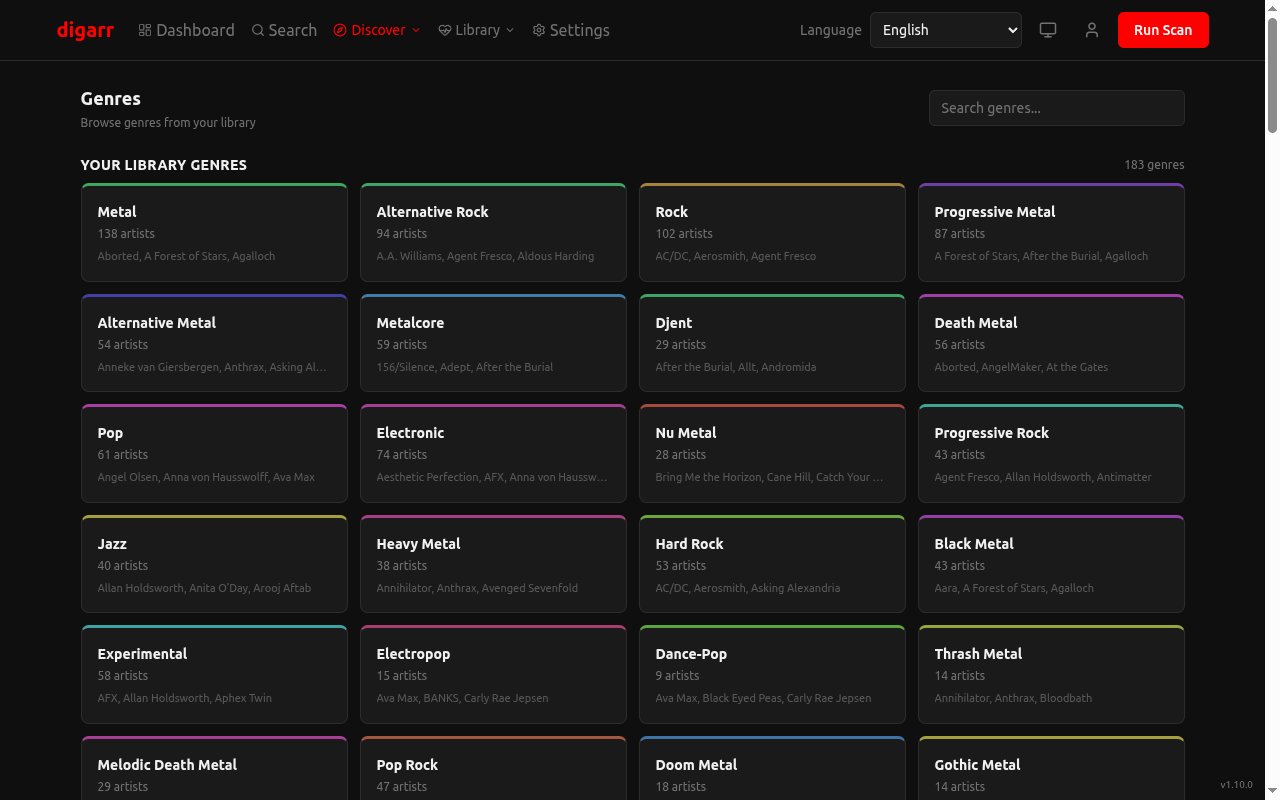
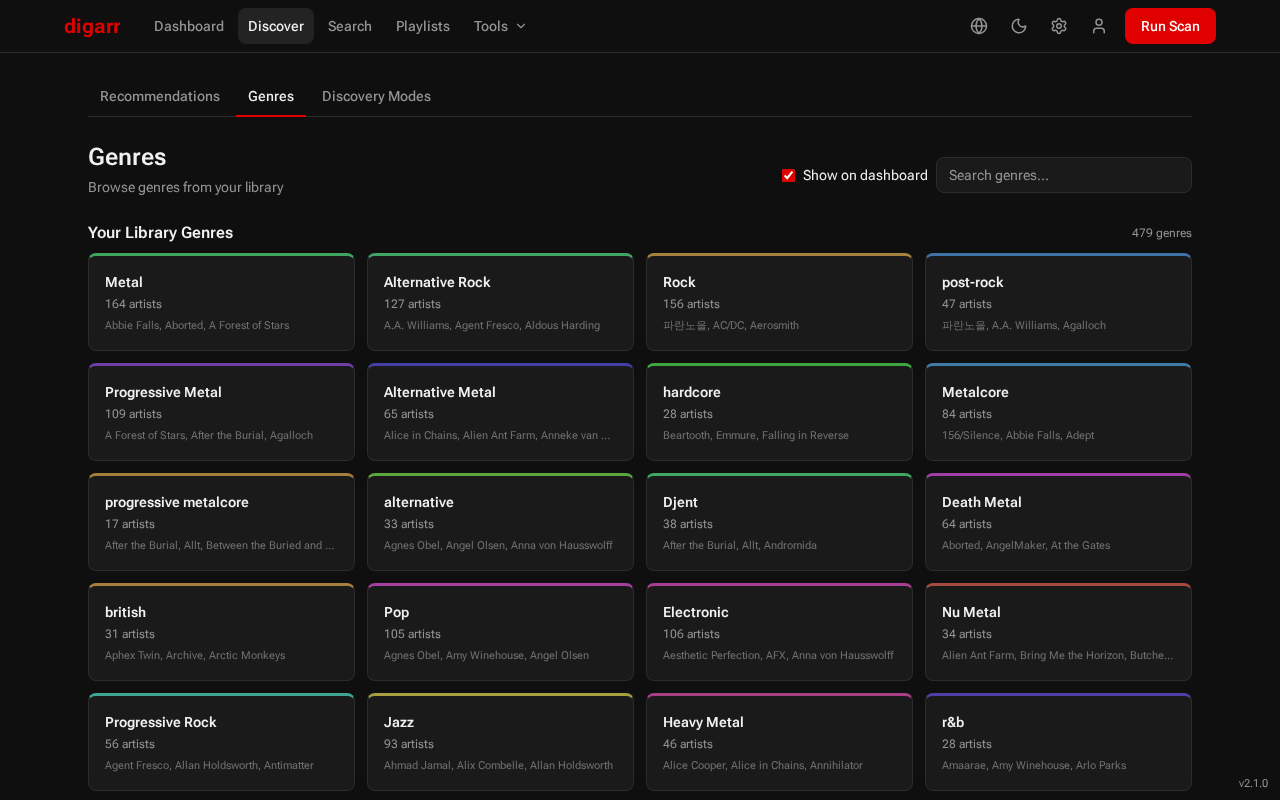
docs(screenshots): recapture the set from v2.1.0
The screenshots predated the UI refresh. Recaptured from a v2.1.0
deployment at 1280x800 and rewrote SCREENSHOTS.md to describe what the
images now show.

The capture script pointed at retired routes and selectors: Discovery
Modes moved to /discovery-modes, the standalone Subscriptions page is a
redirect, Library Sources sits in a collapsed section, and the Add
connection picker opens below the fold. Search now types a query so the
capture shows results.

settings-your-connections.png and subscriptions.png are removed;
settings.png covers Your connections and the Subscriptions page no longer
exists. settings-connections-picker.png is added.

Closes #947

diff --git a/scripts/capture-screenshots.ts b/scripts/capture-screenshots.ts
@@ -56,31 +56,32 @@ const specs: PageSpec[] = [
   { path: '/', file: 'dashboard-dark.png', theme: 'dark' },
   { path: '/', file: 'dashboard-light.png', theme: 'light' },
   { path: '/discover', file: 'discover.png', theme: 'dark' },
-  { path: '/discover/modes', file: 'discovery-modes.png', theme: 'dark' },
-  { path: '/search', file: 'search.png', theme: 'dark' },
+  { path: '/discovery-modes', file: 'discovery-modes.png', theme: 'dark' },
+  {
+    path: '/search',
+    file: 'search.png',
+    theme: 'dark',
+    onPage: async (page) => {
+      await page.getByPlaceholder(/Search artists/i).fill('Agalloch')
+      await page.waitForTimeout(4000)
+    },
+  },
   { path: '/genres', file: 'genres.png', theme: 'dark' },
   // genre-detail is inserted dynamically after finding a slug
   { path: '/playlists', file: 'playlists.png', theme: 'dark' },
-  { path: '/subscriptions', file: 'subscriptions.png', theme: 'dark' },
   { path: '/library?tab=health', file: 'library-health.png', theme: 'dark' },
   {
     path: '/library?tab=health',
     file: 'library-sources.png',
     theme: 'dark',
     onPage: async (page) => {
-      const heading = page
-        .locator('h2, h3, h4')
-        .filter({ hasText: /Library Sources/i })
-        .first()
-      if (await heading.count()) {
-        await heading.scrollIntoViewIfNeeded()
-        await page.waitForTimeout(300)
-        await page.evaluate(() => window.scrollBy(0, -40))
-        await page.waitForTimeout(300)
-      } else {
-        await page.evaluate(() => window.scrollTo(0, document.body.scrollHeight))
-        await page.waitForTimeout(300)
-      }
+      // The panel sits in a collapsed Disclosure on Library > Health.
+      const toggle = page.getByRole('button', { name: /Library Sources/i }).first()
+      await toggle.click()
+      await page.waitForTimeout(800)
+      await toggle.evaluate((el) => el.scrollIntoView({ block: 'start' }))
+      await page.evaluate(() => window.scrollBy(0, -100))
+      await page.waitForTimeout(300)
     },
   },
   { path: '/library?tab=reconciliation', file: 'library-reconciliation.png', theme: 'dark' },
@@ -93,6 +94,11 @@ const specs: PageSpec[] = [
     onPage: async (page) => {
       await page.getByRole('button', { name: 'Add connection', exact: true }).click()
       await page.getByRole('searchbox', { name: 'Search connections' }).waitFor()
+      await page
+        .getByRole('searchbox', { name: 'Search connections' })
+        .evaluate((el) => el.scrollIntoView({ block: 'start' }))
+      await page.evaluate(() => window.scrollBy(0, -120))
+      await page.waitForTimeout(300)
     },
   },
   { path: '/settings?tab=account', file: 'settings-account.png', theme: 'dark' },

diff --git a/docs/SCREENSHOTS.md b/docs/SCREENSHOTS.md
@@ -1,25 +1,22 @@
 # Screenshots
 
-The checked-in screenshots use the Youtarr theme. Most were captured from
-v1.10.0; Analytics was refreshed from v1.12.0. Discovery Modes, Settings, and Your Connections show v1.15.1 (`d276d94`) in their footers; Library Reconciliation shows v1.14.0. The Account capture was added with v1.17.0 (commit `e36d7d8a`); its exact running build was not recorded.
+The checked-in screenshots were captured from a v2.1.0 (`97eefd8d`) deployment with the
+Youtarr theme at 1280x800. Usernames, email addresses, the instance host, and credential
+input values are redacted by the capture script. Capture a fresh set with
+`bun scripts/capture-screenshots.ts`; see that script's header for environment variables.
 
-The descriptions below reflect v2.0.1. The captures predate its genre-priority controls, playlist generation outcomes, Audition failure summary, and dashboard history states; these are described below rather than shown in the older images. Capture a fresh set with
-`bun scripts/capture-screenshots.ts`; see that script's header for environment
-variables.
-
-The web UI refresh tracked in [#889](https://github.com/iuliandita/digarr/issues/889) changes the font, type scale and surface styling; these captures predate it and will be recaptured once the refresh is complete.
-
-In v2.0.0, first-time browser setup starts with account creation before the existing wizard. These captures do not show that onboarding order; form layouts and translated labels are unchanged.
+First-time browser setup starts with account creation before the setup wizard; these
+captures show an instance that is already set up.
 
 ## Dashboard (dark)
 
 ![Dashboard](screenshots/dashboard-dark.png)
 
-In v1.19.0, listening tiles distinguish an unconfigured account, empty history, and a failed fetch. Network or request failures retain cached entries with a retry notice. In v2.0.0, upstream failures returned by the API as HTTP 200 with `status: error` also retain cached entries and show a retry notice; v1.19.0 can replace them with an empty error state ([#770](https://github.com/iuliandita/digarr/issues/770)).
+Customize lists every card, including hidden and empty cards, with visibility, size, pointer drag handles, move buttons, and arrow-key reordering. Screen readers hear the new position. Small, medium, and large span one, two, and three desktop columns and fill the width on phones. Reset to default restores Today's Pick, Your decisions, Listening, Genres, and Subscriptions. The layout follows the signed-in account. Empty cards hide unless Show empty cards is enabled; listening-source failures remain visible in the affected view. When Today's Pick has no recommendations, Run Scan stays available in the dashboard header.
 
-The upcoming customizable dashboard (#995) replaces the fixed layout shown above. Customize lists every card, including hidden and empty cards, with visibility, size, pointer drag handles, move buttons, and arrow-key reordering. Screen readers hear the new position. Small, medium, and large span one, two, and three desktop columns and fill the width on phones. Reset to default restores Today's Pick, Your decisions, Listening, Genres, and Subscriptions. The layout follows the signed-in account. Empty cards hide unless Show empty cards is enabled; listening-source failures remain visible in the affected view. When Today's Pick has no recommendations, Run Scan stays available in the dashboard header.
+Your decisions switches between Approved and All; Listening switches between Top artists and Recently Played. Card headings link to their source page. Genres, Subscriptions, Discover's pending and decision views, and Settings > Connections expose the same visibility preference through Show on dashboard.
 
-Your decisions switches between Approved and All; Listening switches between Top artists and Recently Played. Card headings link to their source page. Genres, Subscriptions, Discover's pending and decision views, and Settings > Connections expose the same visibility preference through Show on dashboard. The existing screenshot capture script still navigates to `/` for both dashboard themes; its selectors need no update. The images above predate these controls.
+Listening tiles distinguish an unconfigured account, empty history, and a failed fetch. Network or request failures, and upstream failures returned as HTTP 200 with `status: error`, retain cached entries with a retry notice.
 
 ## Dashboard (light)
 
@@ -29,19 +26,19 @@ Your decisions switches between Approved and All; Listening switches between Top
 
 ![Discover](screenshots/discover.png)
 
-The normal Run Scan action is artist-focused. Use Library Gap-Fill or Release Radar for album recommendations. The empty state also links to the default-off net-new album discovery setting. In v2.0.0, that toggle persists; v1.19.0 cannot save it ([#791](https://github.com/iuliandita/digarr/issues/791)). The links reveal the requested discovery mode or setting. Recommendation saves omit global writes. Image-source controls now live in Connections > Artist images; admins can edit them and members see a read-only row. An image save reports partial success if its later server write fails. v1.19.0 retains the false save failure described in [#792](https://github.com/iuliandita/digarr/issues/792); read back user preferences there to verify the saved value. The older capture predates the Connections picker and Artist images row.
+The Discover toolbar is one row: status and kind controls, the view switch, a Filters popover (discovery order and decades) and a More menu with the bulk actions (approve above or reject below a threshold, Audition, Select), export, metadata refresh, Clear All and feedback insights. On small screens it is two rows and the view switch moves into More. Grid cards lead with the artist image and keep a single action row; streaming links and the metadata cache dot sit in the expanded card. Reject opens the same reason picker in every view, with a one-click "Reject without a reason" path. The mood search is a button until you click it or press `/`. Keyboard shortcuts are listed in the `?` dialog.
 
-Since v1.19.0, Discover can order and browse genre-priority groups without changing scores. The Audition queue retains a dismissible summary of unavailable-preview reasons after skipping items or finishing.
+The normal Run Scan action is artist-focused. Use Library Gap-Fill or Release Radar for album recommendations. The empty state also links to the default-off net-new album discovery setting. Discover can order and browse genre-priority groups without changing scores. The Audition queue retains a dismissible summary of unavailable-preview reasons after skipping items or finishing.
 
-The **Get missing albums** action opens a studio-album checklist from a recommendation's expanded artist details, including Gap-Fill results and approved artists. All missing albums start selected; untick any you do not want and check the selected count before choosing **Get selected albums**. The dialog reports when nothing is missing or a lookup fails. Partial approval keeps failed albums visible for retry and shows how many succeeded and failed. Approval means the target accepted the album request, not that its download finished. Only MusicBrainz Album groups without secondary types appear, using your synced library to decide what is missing. Lidarr monitors and searches only the selected albums. These captures predate the dialog.
-
-Since the UI refresh (captures above predate it), the Discover toolbar is one row: status and kind controls, the view switch, a Filters popover (discovery order and decades) and a More menu with the bulk actions (approve above or reject below a threshold, Audition, Select), export, metadata refresh, Clear All and feedback insights. On small screens it is two rows and the view switch moves into More. Grid cards lead with the artist image and keep a single action row; streaming links and the metadata cache dot sit in the expanded card. Reject opens the same reason picker in every view, with a one-click "Reject without a reason" path. The mood search is a button until you click it or press `/`. Keyboard shortcuts are listed in the `?` dialog.
+The **Get missing albums** action opens a studio-album checklist from a recommendation's expanded artist details, including Gap-Fill results and approved artists. All missing albums start selected; untick any you do not want and check the selected count before choosing **Get selected albums**. The dialog reports when nothing is missing or a lookup fails. Partial approval keeps failed albums visible for retry and shows how many succeeded and failed. Approval means the target accepted the album request, not that its download finished. Only MusicBrainz Album groups without secondary types appear, using your synced library to decide what is missing. Lidarr monitors and searches only the selected albums.
 
 ## Discovery Modes
 
 ![Discovery Modes](screenshots/discovery-modes.png)
 
-The capture above predates the unified Discovery Modes page at `/discovery-modes`, reached from the Discovery Modes tab on Discover. Your modes now shows compact scheduled and recently run rows. Run a mode opens a searchable picker, where connection requirements and experimental modes appear. Picking a mode opens its Easy/Advanced form with Run now and Schedule actions. Schedule stays in that card, with a preset select and Custom cron input; More options holds the name, artist cap, and scoring preset. Saved rows expand to the same compact editor. Presets and CSV/M3U/XSPF imports live in the add flow. Old `/discover/modes` and `/subscriptions` links redirect; `?mode=<id>` still opens and focuses the requested form.
+The Discovery Modes page at `/discovery-modes` is reached from the Discovery Modes tab on Discover. Your modes shows compact scheduled and recently run rows. Run a mode opens a searchable picker, where connection requirements and experimental modes appear. Picking a mode opens its Easy/Advanced form with Run now and Schedule actions. Schedule stays in that card, with a preset select and Custom cron input; More options holds the name, artist cap, and scoring preset. Saved rows expand to the same compact editor. Presets and CSV/M3U/XSPF imports live in the add flow. Old `/discover/modes` and `/subscriptions` links redirect here; `?mode=<id>` still opens and focuses the requested form.
+
+Schedules, history, pause/resume, and bulk controls for the former Subscriptions page live here. Settings > Schedule collects the scan, mode, playlist, library-sync, and notification-digest schedules with edit links, and holds the admin Scheduled generation switch.
 
 The picker uses the same Show experimental integrations preference as Connections. TIDAL Favorite Artists remains experimental; live-account validation is deferred. See [TIDAL feedback](AUTHENTICATION.md#tidal-feedback).
 
@@ -49,7 +46,7 @@ The picker uses the same Show experimental integrations preference as Connection
 
 ![Search](screenshots/search.png)
 
-Since the UI refresh, the provider toggles sit under a collapsed Sources section, because every available source is searched by default; its title counts the sources narrowing a search. TIDAL and Bandcamp choices now appear only when the admin enables Show experimental integrations in the Connections picker. The search capture predates this switch.
+The provider toggles sit under a collapsed Sources section, because every available source is searched by default; its title counts the sources narrowing a search. TIDAL and Bandcamp choices appear only when the admin enables Show experimental integrations in the Connections picker.
 
 ## Genres
 
@@ -63,35 +60,27 @@ Since the UI refresh, the provider toggles sit under a collapsed Sources section
 
 ![Playlists](screenshots/playlists.png)
 
-Since v1.18.0, the playlist form also offers Audition: one track per pending artist, with the existing schedule and target controls.
-
-In v1.19.0, playlist details also show the latest local generation outcome, selected/resolved/included artist counts, and per-artist lookup or size-limit results. These do not verify remote delivery or playback.
-
-## Subscriptions
-
-![Subscriptions](screenshots/subscriptions.png)
-
-This historical capture shows the retired standalone page. Its schedules, history, pause/resume, bulk controls, presets, and imports now live on Discovery Modes. Settings > Schedule collects the scan, mode, playlist, library-sync, and notification-digest schedules with edit links, and holds the admin Scheduled generation switch. No screenshots were regenerated for this change.
+The playlist form also offers Audition: one track per pending artist, with the existing schedule and target controls. Playlist details show the latest local generation outcome, selected/resolved/included artist counts, and per-artist lookup or size-limit results. These do not verify remote delivery or playback.
 
 ## Library - Health
 
-Open `/library?tab=health`. The historical capture predates the shared Library tabs.
+Open `/library?tab=health`.
 
 ![Library Health](screenshots/library-health.png)
 
 ## Library - Reconciliation
 
-Open `/library?tab=reconciliation`. The historical capture predates the shared Library tabs.
+Open `/library?tab=reconciliation`.
 
 ![Library Reconciliation](screenshots/library-reconciliation.png)
 
-Shipped in `v0.17.0`: unreconciled-artist review plus manual correct/ignore override flow. Extended in `v0.19.0` with unreconciled-album review and album override persistence. Since `v1.15.0`, the view labels each artist and album as no match found, ambiguous match, or lookup failed; eligible rows can be selected, then ignored together through a confirmation dialog. Artist selection covers visible rows, album selection stays on the current page, and failed lookups remain available for retry instead of bulk ignore.
+Lists unreconciled artists and albums with manual correct/ignore overrides. Each row is labelled as no match found, ambiguous match, or lookup failed; eligible rows can be selected, then ignored together through a confirmation dialog. Artist selection covers visible rows, album selection stays on the current page, and failed lookups remain available for retry instead of bulk ignore.
 
 ## Library Sources Panel
 
 ![Library Sources Panel](screenshots/library-sources.png)
 
-Admin panel on Library > Health. Shipped in `v0.17.0` and expanded in `v0.18.0` with per-source album sync counts and snapshot status. Polished in `v0.19.0` with album sync coverage summaries.
+Admin panel in a collapsible section on Library > Health, with per-source sync status, album sync counts, reconciliation totals, and failed lookup warnings.
 
 ## Analytics
 
@@ -103,36 +92,24 @@ The Discovery over time chart shows per-batch recommendation totals, with the ap
 
 ![Settings](screenshots/settings.png)
 
-Since the UI refresh, Settings sections sit in a grouped side menu (Personal, Library & services, Admin) on desktop and a grouped select on small screens; the capture above predates it. Connections now lists saved services only, plus the Artist images row for built-in image providers. Add connection opens a grouped searchable picker with the admin experimental switch at the bottom; the screenshots predate this layout. Each listed service is a collapsed row with its status (Not configured, Saved, Test passed, Test passed - not saved yet, Error, or Connected for OAuth links), and rarely used fields sit in collapsed Advanced blocks.
+Settings sections sit in a grouped side menu (Personal, Library & services, Admin) on desktop and a grouped select on small screens. Connections lists saved services only, plus the Artist images row for built-in image providers; Your connections holds the personal listening sources linked to your account. Each listed service is a collapsed row with its status (Not configured, Saved, Test passed, Test passed - not saved yet, Error, or Connected for OAuth links), and rarely used fields sit in collapsed Advanced blocks.
 
-In v1.18.0, the Settings > Targets flow includes `slskd` target creation with an optional linked Lidarr target and a download root visible to Lidarr. The Plex connection card also has a per-user listener selector populated by Test Connection; these controls are newer than the capture above.
+Settings > Targets includes `slskd` target creation with an optional linked Lidarr target and a download root visible to Lidarr. The Plex connection card has a per-user listener selector populated by Test Connection. Settings > Recommendations includes optional primary and secondary genre lists for Discover ordering and browsing, and the Blocked section with separate permanent artist and album blocklists (`/settings?tab=blocked` opens it). Settings > Administration asks for confirmation before uploading a selected backup; a key mismatch requires a separate **Restore Anyway** confirmation.
 
-In v1.19.0, Settings > Recommendations includes optional primary and secondary genre lists for Discover ordering and browsing.
+## Settings > Connections > Add connection
 
-In v2.0.0, Settings > Administration asks for confirmation before uploading a selected backup. A key mismatch requires a separate **Restore Anyway** confirmation. These dialogs are not shown in the existing Settings capture; they use the shared translated confirmation dialog and existing theme styles.
+![Add connection](screenshots/settings-connections-picker.png)
+
+Add connection opens a grouped searchable picker of the services that are not saved yet, with the admin experimental switch at the bottom. The TIDAL entries carry the Experimental badge while live-account connect, refresh, and populated favorite-artist results remain unverified; connecting TIDAL requires an admin to configure the app credentials first. See [TIDAL feedback](AUTHENTICATION.md#tidal-feedback) for safe community reporting.
 
 ## Settings > Account
 
 ![Account](screenshots/settings-account.png)
 
-The Account page offers password-confirmed SSO linking when OIDC is enabled and the local account is not linked yet. Linked accounts show their status; callback outcomes appear in a dismissible message. A Tips section brings back dismissed help tips. This capture uses a sample account with OIDC enabled.
+The Account page offers password-confirmed SSO linking when OIDC is enabled and the local account is not linked yet. Linked accounts show their status; callback outcomes appear in a dismissible message. A Tips section brings back dismissed help tips.
 
-The current Account page also manages personal notification channels for your own request decisions. Subscribe explicitly to request outcomes; new channels leave the event off. These controls are newer than the capture above.
-
-The current Account page also manages personal API tokens. After creating a token, its one-time reveal includes a copyable MCP client configuration with `type: "http"`, the endpoint URL, and the bearer header. The capture above predates these controls; closing the dialog removes the token and configuration from view.
-
-## Settings > Connections > Your Connections
-
-![Your Connections](screenshots/settings-your-connections.png)
-
-This older capture shows ListenBrainz, Last.fm, Spotify, Deezer, and TIDAL, plus the top of the Plex card. Jellyfin, Emby, Subsonic/Navidrome, and Discogs are also supported. The current list shows only saved services, including incomplete credentials; unconfigured services are in Add connection. The capture above shows the old all-services list. Input values and the instance host are redacted in the capture. The TIDAL card carries the Experimental badge while live-account connect, refresh, and populated favorite-artist results remain unverified; connecting TIDAL requires an admin to configure the app credentials first. See [TIDAL feedback](AUTHENTICATION.md#tidal-feedback) for safe community reporting.
-
-The capture script can produce `settings-connections-picker.png` from the open Add connection panel. It uses the Add connection and Search connections accessible names; that artifact is not checked in yet.
-
-## Settings > Recommendations > Blocked
-
-The screenshot capture script can produce `settings-blocked.png` by opening `/settings?tab=blocked`, which lands on the Blocked section at the bottom of Settings > Recommendations. That section holds separate permanent artist and album blocklists; no `settings-blocked.png` artifact is currently checked in.
+The Account page also manages personal notification channels for your own request decisions (subscribe explicitly to request outcomes; new channels leave the event off) and personal API tokens. After creating a token, its one-time reveal includes a copyable MCP client configuration with `type: "http"`, the endpoint URL, and the bearer header; closing the dialog removes the token and configuration from view.
 
 ## User management and approval requests
 
-The current user-management page adds per-user approval policies, a trusted score threshold, and an optional open-request limit. Its Requests section shows the admin queue with scores, reasons, and approve/decline decisions with optional notes. Members see their pending and declined requests on Discover > Approved. The existing captures predate these controls; see [approval policies](AUTHENTICATION.md#approval-policies) for the workflow.
+The user-management page adds per-user approval policies, a trusted score threshold, and an optional open-request limit. Its Requests section shows the admin queue with scores, reasons, and approve/decline decisions with optional notes. Members see their pending and declined requests on Discover > Approved. These controls are not captured; see [approval policies](AUTHENTICATION.md#approval-policies) for the workflow.
